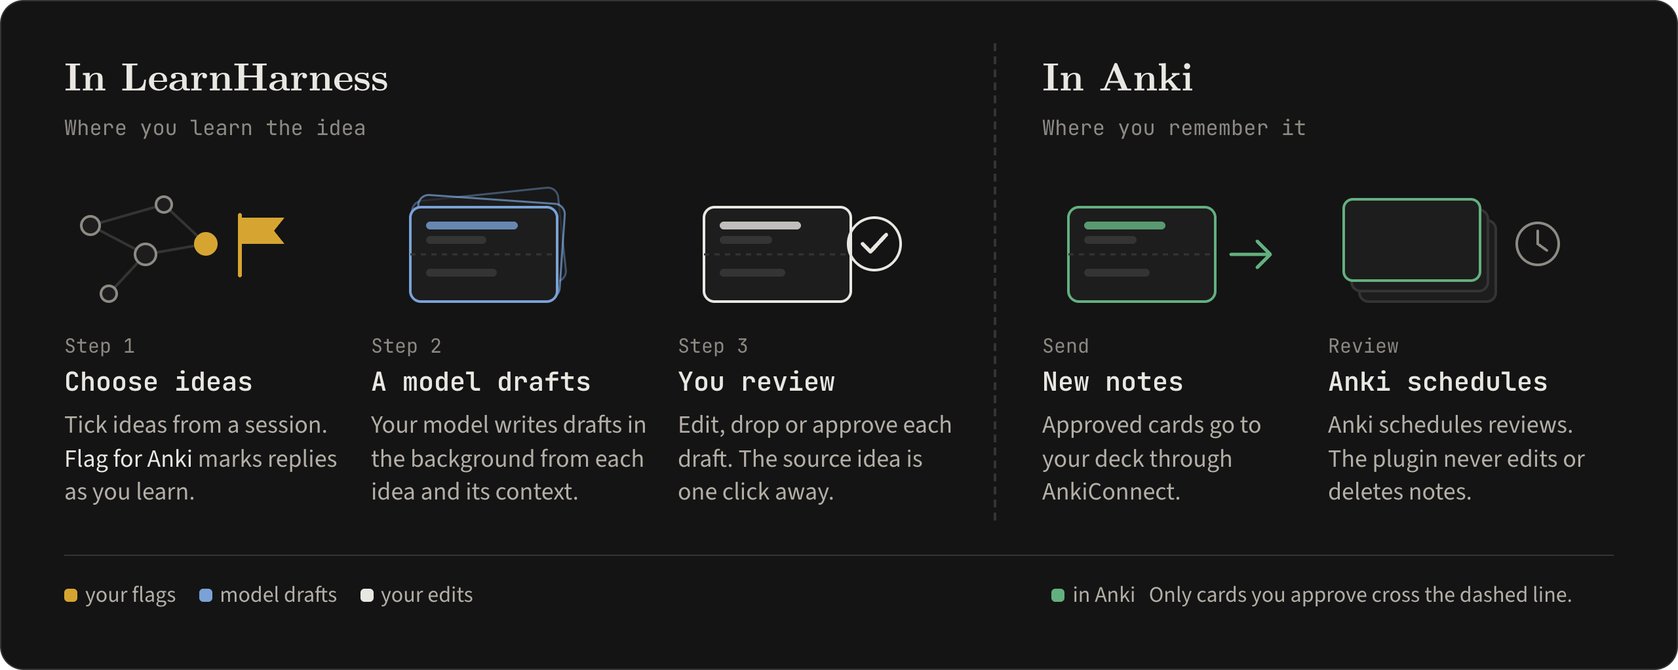
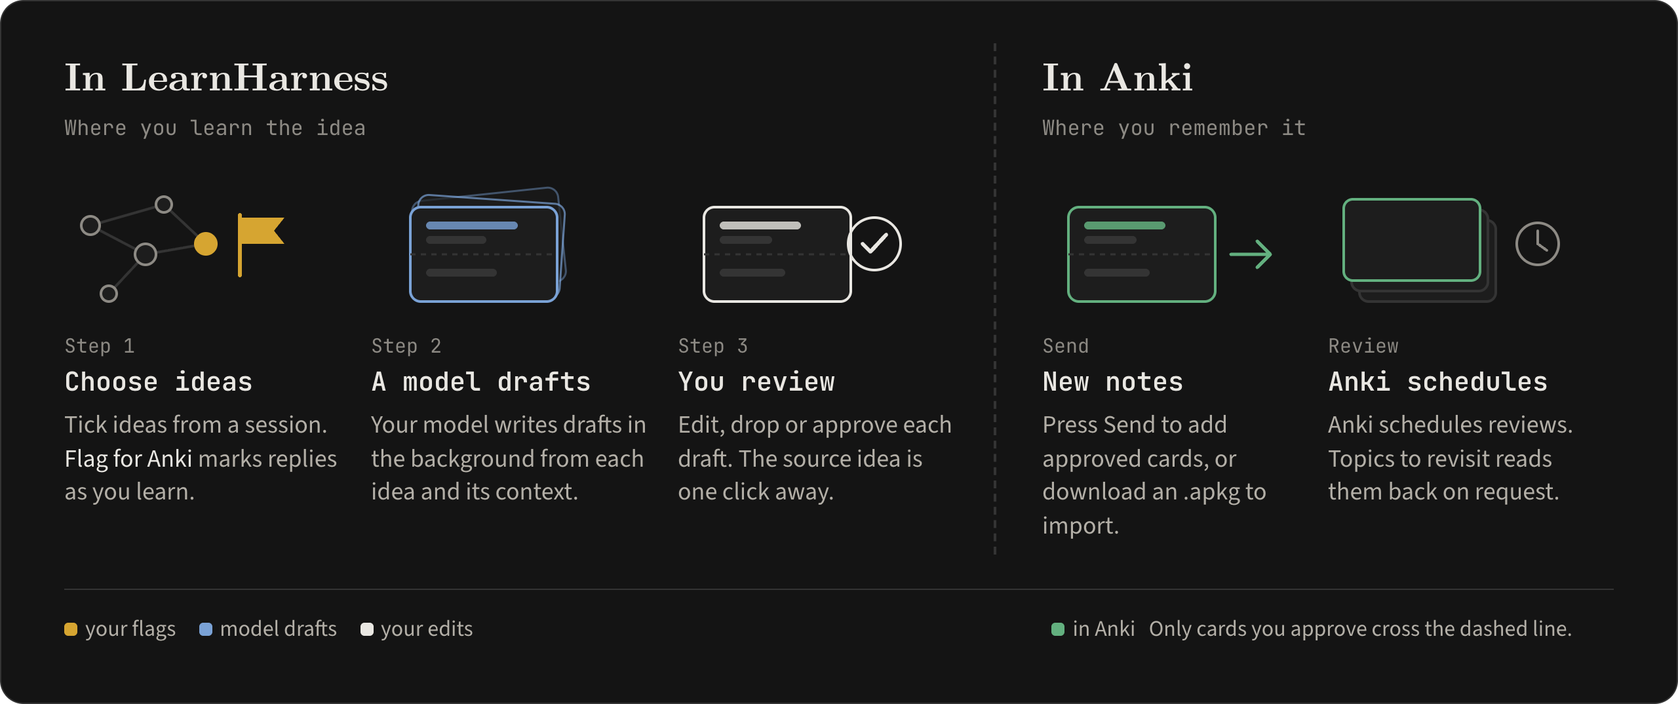
Update the README for 0.8.0 and move the diagram under the hero
- Retake every screenshot from the 0.8.0 build: four card types and the
  model picker on Write, Download .apkg beside Send, unpaired settings
- New screenshots: Topics to revisit and Settings > More card types
- Card-types sheet shows six types and where each is turned on; Steps,
  Apply and Contrast examples follow the writer's rules
- Diagram covers .apkg export and Topics to revisit, and sits under the hero
- New sections for package download and Topics to revisit; data table,
  limitations and roadmap match 0.8.0
- Round-2 council fixes: bounded model context, conditional Save, menu
  label for dismissing ideas, interrupted-send recovery, H1 title
- Remove README-only images from 0.7.2 and 0.8.0

diff --git a/docs/images/readme/src/card-types.html b/docs/images/readme/src/card-types.html
@@ -4,7 +4,8 @@
 <script src="fonts/tex-svg.js"></script>
 <style>
 #art { width: 1280px; padding: 36px 40px 40px; border-radius: 18px; border: 1px solid var(--rule); }
-.grid { display: grid; grid-template-columns: repeat(4, 1fr); gap: 18px; }
+.grid { display: grid; grid-template-columns: 1.15fr repeat(3, 1fr); gap: 18px; }
+.idea { grid-row: span 2; }
 .idea { padding: 4px 8px 0 2px; }
 .idea .node { display: flex; align-items: center; gap: 10px; font-size: 13px; color: var(--flag); }
 .idea .node i { width: 14px; height: 14px; border-radius: 50%; background: var(--flag); display: inline-block; }
@@ -28,7 +29,7 @@
       <div class="node"><i></i>One idea from your graph</div>
       <h2>Carnot efficiency</h2>
       <p class="stmt">A reversible engine between reservoirs at absolute temperatures \(T_h\) and \(T_c\) has efficiency \(\eta = 1 - T_c/T_h\).</p>
-      <p>Seven kinds of card can test it. Fact and Equation are on by default. Turn on the others in step 2.</p>
+      <p>Six kinds of card can test it. Fact and Equation are on by default. Why and Steps are switched on in the Write step, Apply and Contrast in Settings.</p>
     </div>
     <div class="card def"><header><b>Fact</b><span>default</span></header>
       <div class="q">What kind of temperature goes into the Carnot efficiency?</div>
@@ -36,21 +37,19 @@
     <div class="card def"><header><b>Equation</b><span>default</span></header>
       <div class="q">What is the efficiency of a reversible engine between \(T_h\) and \(T_c\)?</div>
       <div class="a">\(\eta = 1 - \dfrac{T_c}{T_h}\)</div></div>
-    <div class="card"><header><b>Steps</b><span>optional</span></header>
-      <div class="q">How do you find the best possible efficiency from two reservoir temperatures?</div>
-      <div class="a">Convert both to kelvin, divide cold by hot, subtract from 1.</div></div>
-    <div class="card"><header><b>Apply</b><span>optional</span></header>
-      <div class="q">A plant raises steam at 550&nbsp;K and cools it with a river at 290&nbsp;K. What caps its efficiency?</div>
-      <div class="a">The Carnot limit, \(1 - 290/550 \approx 47\%\).</div></div>
-    <div class="card"><header><b>Why</b><span>optional</span></header>
+    <div class="card"><header><b>Why</b><span>Write step</span></header>
       <div class="q">Why can no engine between two reservoirs beat a reversible one?</div>
       <div class="a">It could drive the reversible engine backwards and break the Kelvin-Planck statement.</div></div>
-    <div class="card"><header><b>Compose</b><span>optional</span></header>
-      <div class="q">All reversible engines between two reservoirs share one efficiency, and for them \(Q_c/Q_h = T_c/T_h\). What is that efficiency?</div>
-      <div class="a">\(\eta = 1 - Q_c/Q_h = 1 - T_c/T_h\)</div></div>
-    <div class="card"><header><b>Contrast</b><span>optional</span></header>
-      <div class="q">Which can exceed 1: an engine's efficiency or a refrigerator's coefficient of performance?</div>
-      <div class="a">The coefficient of performance. Efficiency is always below 1.</div></div>
+    <div class="card"><header><b>Steps</b><span>Write step</span></header>
+      <div class="q">Finding an engine's Carnot limit, you have converted both reservoir temperatures to kelvin. What next?</div>
+      <div class="a">Divide \(T_c\) by \(T_h\).</div></div>
+    <div class="card"><header><b>Apply</b><span>Settings</span></header>
+      <div class="q">A plant raises steam at 550&nbsp;K and cools it with a river at 290&nbsp;K. Which relation caps its efficiency, and what tells you?</div>
+      <div class="a">The Carnot efficiency. Heat flows between two reservoirs at fixed temperatures.</div></div>
+    <div class="card"><header><b>Contrast</b><span>Settings</span></header>
+      <div class="q">A reversible device between 300&nbsp;K and 600&nbsp;K scores 0.5 on its figure of merit. What kind of device is it?</div>
+      <div class="a">A heat engine, \(\eta = 1 - 300/600\). A refrigerator there would have a COP of 1.</div></div>
   </div>
+</div>
 </div>
 </body></html>

diff --git a/docs/images/readme/src/workflow.html b/docs/images/readme/src/workflow.html
@@ -83,7 +83,7 @@
           </svg>
           <div class="n">Send</div>
           <h3>New notes</h3>
-          <p>Approved cards go to your deck through AnkiConnect.</p>
+          <p>Press Send to add approved cards, or download an .apkg to import.</p>
         </div>
         <div class="st">
           <svg viewBox="0 0 200 96" width="200">
@@ -94,7 +94,7 @@
           </svg>
           <div class="n">Review</div>
           <h3>Anki schedules</h3>
-          <p>Anki schedules reviews. The plugin never edits or deletes notes.</p>
+          <p>Anki schedules reviews. Topics to revisit reads them back on request.</p>
         </div>
       </div>
     </div>

diff --git a/README.md b/README.md
@@ -1,10 +1,10 @@
-<p align="center">
+<h1 align="center">
   <picture>
     <source media="(prefers-color-scheme: dark)" srcset="docs/images/readme/banner-dark.png">
     <source media="(prefers-color-scheme: light)" srcset="docs/images/readme/banner-light.png">
-    <img src="docs/images/readme/banner-light.png" alt="Anki Bridge banner. A node in a knowledge graph is linked by a dotted line to a stack of flashcards." width="720">
+    <img src="docs/images/readme/banner-light.png" alt="Anki Bridge" width="720">
   </picture>
-</p>
+</h1>
 
 <p align="center"><strong>Turn what you learn in LearnHarness into Anki cards you have checked.</strong></p>
 
@@ -12,39 +12,40 @@
   <a href="#install">Install</a> ·
   <a href="#how-it-works">How it works</a> ·
   <a href="#card-types">Card types</a> ·
+  <a href="#topics-to-revisit">Topics to revisit</a> ·
   <a href="#what-goes-where">What goes where</a> ·
   <a href="CHANGELOG.md">Changelog</a>
 </p>
 
-<p align="center"><sub>Version 0.7.2 · No public release yet · <a href="#install">Build from source</a></sub></p>
+<p align="center"><sub>Version 0.8.0 · No public release yet · Build from source</sub></p>
 
-Anki Bridge is a community plugin for [LearnHarness](https://github.com/amosblomqvist/learnharness). It reads the ideas in your knowledge graph, has your model draft flashcards from them, and sends the ones you approve to [Anki](https://apps.ankiweb.net/) as new notes. You edit and approve every draft, Anki schedules the reviews, and nothing reaches Anki until you press Send.
+Anki Bridge is a community plugin for [LearnHarness](https://github.com/amosblomqvist/learnharness). It reads the ideas in your knowledge graph, has your model draft flashcards from them, and adds the ones you approve to [Anki](https://apps.ankiweb.net/). You edit and approve every draft, and Anki schedules the reviews. Only cards you approve are added, either when you press Send or when you import a package you downloaded.
 
-![The Anki Bridge review step in LearnHarness. A deck and tags form with Approve all drafts (4) and Send 1 card to Anki sits above draft cards about Carnot efficiency and the Kelvin-Planck statement, each showing front, back and extra fields with rendered equations.](docs/images/readme/hero.png)
-
-## Why it works this way
-
-**Cards start from your graph.** Each LearnHarness idea is a single claim, linked to the premises that support it and the teaching reply it came from. The model sees all of that, so a Why card can ask for the actual reasoning you were taught and a Contrast card can pick a real neighbouring idea.
-
-**You review every card.** Model-written cards are often close but not quite right. Learners who make their own cards remember more than those who study a premade deck ([Pan et al., 2022](https://doi.org/10.1037/mac0000083)), and editing drafts keeps you part of that work. The review screen is built for editing, with the source idea one click away and a live preview below each field.
-
-**It only adds notes.** Anki Bridge creates notes in its own note type. It never edits or deletes an existing note and never changes scheduling or review history. If you change a card in Anki, your change stays.
-
-**Maths and code survive the trip.** Cards use MathJax for equations and keep fenced code blocks with their indentation, both in the preview and in Anki.
-
-## How it works
+![The Anki Bridge review step in LearnHarness. A deck and tags form with Approve all drafts (4), Download .apkg and Send 1 card to Anki sits above the drafts. An Equation card on Carnot efficiency shows its front, back, extra field and rendered equation, followed by a Fact card on the Kelvin-Planck statement and an approved Why card.](docs/images/readme/hero.png)
 
 <picture>
   <source media="(prefers-color-scheme: dark)" srcset="docs/images/readme/how-it-works-dark.png">
   <source media="(prefers-color-scheme: light)" srcset="docs/images/readme/how-it-works-light.png">
-  <img src="docs/images/readme/how-it-works-light.png" alt="Diagram in two halves. In LearnHarness, step 1 is choosing ideas, which you can flag during teaching. In step 2 a model drafts cards, and in step 3 you review them. A dashed line separates this from Anki, where approved cards arrive as new notes and Anki schedules reviews. Only cards you approve cross the line.">
+  <img src="docs/images/readme/how-it-works-light.png" alt="Diagram in two halves. In LearnHarness, step 1 is choosing ideas, and replies you flag during teaching mark their ideas. In step 2 a model drafts cards, and in step 3 you review them. A dashed line separates this from Anki. You press Send to add approved cards, or download an .apkg to import, and Anki schedules the reviews. Topics to revisit reads them back when you ask. Only cards you approve cross the line.">
 </picture>
 
-### Before you start, flag replies while you learn
+## Why it works this way
 
-When a teaching reply covers something you want to keep, press **Flag for Anki** in the session's top bar. It flags the latest finished reply and lets you leave a note for the card writer, such as the mistake you made. Cmd+Shift+A (Ctrl+Shift+A on Windows and Linux) flags it at once, and the confirmation offers to add a note. The flag covers every idea LearnHarness extracts from that reply, and flagged ideas may get more cards than usual. **Make cards** in the same bar jumps straight to drafting for the current session.
+**Cards start from your graph.** Each LearnHarness idea is a single claim, linked to the ideas that support it and the teaching reply it came from. The model gets the idea, nearby linked ideas and an excerpt of that reply, so a Why card can ask for the reasoning you were taught.
 
-Flagging is optional. You can make cards for any idea in your graph.
+**You review every card.** Model-written cards are often close but not quite right, so every draft waits for you to check and edit it. Making your own cards also helps memory compared with studying a premade deck ([Pan et al., 2022](https://doi.org/10.1037/mac0000083)). The review screen is built for editing, with the source idea one click away and a live preview below each field.
+
+**It only adds notes.** Anki Bridge creates notes in its own note type. It never edits or deletes an existing note and never changes scheduling or review history. If you change a card in Anki, your change stays.
+
+**Maths and code keep their formatting.** Cards use MathJax for equations and keep fenced code blocks with their indentation, both in the preview and in Anki.
+
+## How it works
+
+### Flag replies while you learn (optional)
+
+When a teaching reply covers something you want to keep, press **Flag for Anki** in the session's top bar. It flags the latest finished reply and lets you leave a note for the card writer, such as the mistake you made. Cmd+Shift+A (Ctrl+Shift+A on Windows and Linux) flags it at once, and the confirmation offers to add a note. The flag covers every idea LearnHarness extracts from that reply, and flagged ideas can get up to 12 cards. **Make cards** in the same bar opens Anki Bridge with that session's flagged ideas ticked.
+
+You don't have to flag anything. You can make cards for any idea in your graph.
 
 ![A LearnHarness teaching session about heat engines, with Flag for Anki and Make cards in the top bar. The Flag for Anki dialog shows an excerpt of the latest reply and the note "I mix up which temperature goes on top."](docs/images/readme/flag.png)
 
@@ -52,65 +53,86 @@ Flagging is optional. You can make cards for any idea in your graph.
 
 Open **Anki Bridge** from the LearnHarness sidebar. The page has three steps, top to bottom.
 
-Pick a session, or the whole graph, and tick the ideas you want cards for. Each idea shows where it stands: flagged, no cards yet, drafts to review, already in Anki, or changed since you made its cards. **Select ideas without cards** picks every idea in the current view that has none, which is the quickest way to catch up on an old session. Ideas you never want cards for can be dismissed.
+Under **Ideas from**, pick a session or your whole graph, and tick the ideas you want cards for. Each idea shows where it stands: flagged, no cards yet, drafts to review, already in Anki, or changed since you made its cards. **Select ideas without cards** ticks every idea in the current view that has none. If that would be more than 1,000 ideas, it asks you to narrow the view first. To stop seeing an idea, choose **Don't make cards for this idea** from its menu.
 
 ![Step 1, Choose ideas. A flag banner with the note about temperatures sits above a list of ideas from the heat engines session with badges such as Flagged, No cards, 1 to review, 1 in Anki and Changed since carded. A bar at the bottom reads 7 ideas selected.](docs/images/readme/choose-ideas.png)
 
 ### 2. Write cards
 
-Choose the card types and the most cards per idea, then press **Write cards**. The plugin uses your LearnHarness cheap model unless you pick another one. Before anything runs, a dialog shows the number of model calls, the most cards it can write, a cost estimate for the first attempt when the model has pricing, and a summary of what will be sent to the model. Nothing is sent until you press **Start writing**.
+Tick the card types you want (Fact, Equation, Why and Steps) and set the most cards per idea. **See examples** shows a sample card for each type. Leave the model picker blank to use your LearnHarness cheap model, or pick another model.
 
-Writing happens in the background, so you can keep learning. If a run is cancelled or a batch fails, cards from finished batches are kept, and **Retry the rest** estimates again for the remaining ideas only.
+Press **Write cards**. A dialog shows the number of model calls, the most cards it can write, a cost estimate for the first attempt when the model has pricing, and a summary of what will be sent to the model. Nothing is sent until you press **Start writing**.
 
-![Step 2, Write cards. Card type checkboxes with Fact, Equation and Why ticked, a cards-per-idea limit, and the Write cards dialog listing 2 ideas, up to 4 cards, Claude Haiku 4.5 as the LearnHarness cheap model, 1 model call and a cost of about one cent.](docs/images/readme/write.png)
+Writing happens in the background, so you can keep learning. If a run is cancelled or a batch fails, cards from finished batches are kept. **Retry the rest** estimates again for the remaining ideas only, or **Try again** if no batch finished.
+
+![Step 2, Write cards. Fact, Equation and Why are ticked and Steps is not, the model picker is blank, and the limit is 2 cards per idea. The Write cards dialog lists 2 ideas, up to 4 cards, Claude Haiku 4.5 as the cheap model, 1 model call or up to 3 if answers need fixing, and a cost of about one cent for the first attempt.](docs/images/readme/write.png)
 
 ### 3. Review and send
 
-Every draft shows its front, back and optional extra field with maths and code rendered. Open **Idea when this card was written** to compare a card with its source. Edit, drop or approve cards one at a time, or approve all drafts once you have read them. Long cards get a gentle warning, not a block. You can also write a card by hand from the **More** menu.
+Every draft shows its front, back and optional extra field, with maths and code rendered. Open **Idea when this card was written** to compare a card with its source. Edit, drop or approve cards one at a time, or approve all drafts once you have read them. Long cards get a warning but can still be approved. You can also write a card by hand from the **More** menu.
 
 ![Editing a card. The raw text with MathJax delimiters sits above a live preview of the rendered question and the equation for Carnot efficiency.](docs/images/readme/edit.png)
 
 ![A Steps card for insertion sort whose answer is a syntax-highlighted Python loop with its indentation intact.](docs/images/readme/code.png)
 
-Pick a deck (or type a new one), check the tags and press **Send**. The tags field suggests tags from your Anki collection and fills in a template you set once. A green panel confirms what was sent, where, and with which tags, and **Show in Anki** opens the new notes in Anki's browser.
+Pick a deck (or type a new one), check the tags and press **Send to Anki**. The deck field suggests your Anki decks and says when a name is new. The tags field suggests tags from your Anki collection and starts from a template you set once in settings. A green panel confirms how many cards were sent, to which deck, with which tags, and **Show in Anki** opens them in Anki's browser.
 
 ![A green confirmation panel reading 5 cards sent to Anki, with the deck Physics::Thermodynamics, the tags that were added, and Show in Anki and Dismiss buttons.](docs/images/readme/sent.png)
+
+#### Download a package instead
+
+**Download .apkg**, next to Send to Anki, saves the approved cards as a package file. It needs a deck name but no AnkiConnect, and Anki can be closed. Open the file with Anki, or use **File → Import**, to add the cards. The package has the same fields, formatting, tags and note type as a send.
+
+A download is not a send. The cards stay approved, they don't count as in Anki, and you can still send them. Anki decides how to match an imported package with your collection, so importing can add duplicates of cards you already sent, and Anki Bridge can't check this.
 
 ## Card types
 
 <picture>
   <source media="(prefers-color-scheme: dark)" srcset="docs/images/readme/card-types-dark.png">
   <source media="(prefers-color-scheme: light)" srcset="docs/images/readme/card-types-light.png">
-  <img src="docs/images/readme/card-types-light.png" alt="One idea, Carnot efficiency, and seven example cards written from it. Fact and Equation are marked default. Steps, Apply, Why, Compose and Contrast are marked optional, each with a sample question and answer.">
+  <img src="docs/images/readme/card-types-light.png" alt="One idea, Carnot efficiency, and six example cards written from it. Fact and Equation are marked default. Why and Steps are marked Write step. Apply and Contrast are marked Settings. Each card has a sample question and answer.">
 </picture>
 
-| Type | What it asks you to do | Default |
+| Type | What it asks you to do | Where to turn it on |
 | --- | --- | --- |
-| Fact | Remember a fact, definition, unit or prefix | On |
-| Equation | Recall a specific formula or relation | On |
-| Steps | Recall the steps of a method | Off |
-| Apply | Recognise where to use an idea in a new situation | Off |
-| Why | Explain the reason behind the idea | Off |
-| Compose | Combine linked ideas to reach this one | Off |
-| Contrast | Tell the idea apart from a similar one | Off |
+| Fact | Remember a definition, unit, prefix or other fact | On by default |
+| Equation | Recall a formula or relation | On by default |
+| Why | Explain why a result holds | Write step |
+| Steps | Recall the next step in a method you carry out | Write step |
+| Apply | Pick the rule or method that fits a new situation | Settings, under **More card types** |
+| Contrast | Tell apart two ideas that are easy to mix up | Settings, under **More card types** |
 
-The model writes only types that fit an idea. Why and Compose need a reasoning chain that ends in the idea, and Contrast needs a related idea to compare with. An idea can also get no card at all if the model judges it not worth one, and it says why. Numerical values of physical constants are left out unless you turn them on, ask for one in a flag note, or the lesson calculates with that constant.
+The model writes only types that fit an idea. Why needs supporting ideas in the graph, and Contrast needs a similar neighbouring idea. An idea can also get no card at all if the model can't write a useful one it can check, and it says why. The numerical values of physical constants are not carded unless you flag the idea that states one. A conversion constant you use in calculations, such as $\hbar c$, can still get a card.
+
+Earlier versions also drafted Compose cards. Cards you already have of that type stay readable.
+
+<p align="center">
+  <img src="docs/images/readme/more-card-types.png" alt="The More card types panel in Anki Bridge settings. It explains that Fact, Equation, Why and Steps are chosen on the Write step, then offers Apply and Contrast checkboxes, each with an example card." width="640">
+</p>
+
+## Topics to revisit
+
+Open **Topics to revisit** from the sidebar, or from **More** in step 3, and press **Check Anki reviews**. Nothing is read from Anki before you press it. Anki Bridge then reads review results for the notes it sent to your paired profile and lists a topic when one of its cards has 3 or more lapses, 2 or more Again presses on reviews in the last 30 days, or Anki's leech tag.
+
+Each topic shows its cards with their lapses, reviews, recent Again dates and deck, with buttons to open the session the idea came from and to show a card in Anki. The list suggests what to look at again. It doesn't prove you don't know something, because a card you keep missing may be badly worded. Results stay in memory until you press **Clear** or close LearnHarness. They are not saved, added to your graph or sent to a model.
+
+![Topics to revisit after a check. Two topics are listed. Refrigerator coefficient of performance has 4 lapses and 3 Again presses in 30 days, with its card, review dates and a Show in Anki button. Michaelis-Menten equation below it has 2 lapses, 1 Again and a Leech badge.](docs/images/readme/topics.png)
 
 ## Install
 
 > [!NOTE]
-> Anki Bridge has no public release yet. Version 0.7.2 is the current build for personal use. Until a release is published, build the install zip from source as described below.
+> Anki Bridge has no public release yet. Version 0.8.0 is the current build for personal use. Until a release is published, build the install zip from source as described below.
 
 ### What you need
 
-- [LearnHarness](https://github.com/amosblomqvist/learnharness) with community plugins (plugin API v1). Tested on 0.6.1. The plugin allows later versions but has not been tested on them.
-- Anki Desktop with the [AnkiConnect](https://git.sr.ht/~foosoft/anki-connect) add-on, running while you send. Tested with Anki 26.08.1 and AnkiConnect 26.10.11.0 and 26.11.15.0, which need Anki 26.08 or later. AnkiConnect builds without `getActiveProfile` are refused, because the plugin uses it to check it is writing to the right profile.
+- [LearnHarness](https://github.com/amosblomqvist/learnharness) with community plugins (plugin API v1). Tested on 0.6.1 on macOS. The plugin allows later versions but has not been tested on them.
 - A model set up in LearnHarness, for writing cards. Choosing ideas, estimating cost and sending make no model calls. Writing cards uses your provider's quota.
+- For sending and Topics to revisit, Anki Desktop 26.08 or later with the [AnkiConnect](https://git.sr.ht/~foosoft/anki-connect) add-on, running while you use them. Tested with AnkiConnect 26.10.11.0 and 26.11.15.0. Builds without `getActiveProfile` are refused, because the plugin uses it to check it is writing to the right profile. **Download .apkg** works without AnkiConnect.
 - To build the zip, Node.js 23.6 or later, npm and the `zip` command.
 
 ### Steps
 
-1. Build the zip. In a clone of this repository, run `npm ci` and then `npm run package:plugin`. This writes `anki-bridge-v0.7.2.zip` at the repository root.
+1. Build the zip. In a clone of this repository, run `npm ci` and then `npm run package:plugin`. This writes `anki-bridge-v0.8.0.zip` at the repository root.
 2. In LearnHarness, open **Settings → Community plugins** and copy the plugins folder path. Quit LearnHarness.
 3. Unzip the archive and move the `anki-bridge` folder into the plugins folder, so the manifest ends up at `anki-bridge/dist/manifest.json`.
 4. Start LearnHarness, enable **Anki Bridge** under Community plugins, and open it from the sidebar.
@@ -122,13 +144,13 @@ To upgrade later, quit LearnHarness, back up `anki-bridge/data/`, then replace o
 
 ### Connect to Anki
 
-Open Anki on the profile you want cards in. A throwaway profile is a good place to start.
+Skip this if you only want to download packages. Otherwise, open Anki on the profile you want cards in. A throwaway profile is a good place to start.
 
-1. In **Settings → Anki Bridge**, check the AnkiConnect address (usually `http://127.0.0.1:8765`) and add an API key if you set one in AnkiConnect.
-2. Press **Save**, then **Test connection**.
+1. In **Settings → Anki Bridge**, check the AnkiConnect address (usually `http://127.0.0.1:8765`). Add an API key if you set one in AnkiConnect.
+2. If you changed the address or key, press **Save**. Then press **Test connection**.
 3. Press **Use the open profile**, check the profile name, and confirm with **Use this profile**.
 
-From then on, the plugin checks the profile before every send and stops if a different one is open.
+From then on, the plugin checks the profile before every send and review check, and stops if a different one is open.
 
 <p align="center">
   <img src="docs/images/readme/settings.png" alt="Anki Bridge settings inside LearnHarness Settings. Connect to Anki has the address http://127.0.0.1:8765, an empty API key field, and Save and Test connection buttons. Anki profile reads No profile chosen yet, with a Use the open profile button." width="720">
@@ -138,10 +160,12 @@ From then on, the plugin checks the profile before every send and stops if a dif
 
 | | What | When |
 | --- | --- | --- |
-| To your model | The chosen ideas, nearby linked ideas, an excerpt of the reply each idea came from when there is one, your flag notes, and cards Anki Bridge already made for those ideas | When you press **Start writing** |
-| Written to Anki | Approved cards as new notes in the note type `LearnHarness Basic` (fields Front, Back, Extra, Source, LH_ID and LH_Node). A send also creates the deck and the note type if they are missing. | When you press **Send** |
+| To your model | The chosen ideas, nearby linked ideas, an excerpt of the reply each idea came from when there is one, your flag notes, and up to six recent cards Anki Bridge made for each idea | When you press **Start writing** |
+| Written to Anki | Approved cards as new notes in the note type `LearnHarness Basic` (fields Front, Back, Extra, Source, LH_ID and LH_Node). A send also creates the deck and the note type if they are missing. | When you press **Send to Anki** |
 | Changed in Anki on request | The `LearnHarness Basic` note type's missing fields, styling and templates | Only when you confirm a repair or reset in settings |
-| Read from Anki | Connection, active profile, deck names, tags, the note type, and whether sent notes still exist | When you open the page, send, or run a check |
+| Read from Anki | The open profile, deck names and tags, the note type, and the notes Anki Bridge sent, to check they still exist | When you open the page, send, or run a check |
+| Read for Topics to revisit | Lapses, reviews, review logs, tags, deck and suspended status of the notes Anki Bridge sent to the paired profile | Only when you press **Check Anki reviews** |
+| Saved to a file | Approved cards, their source names and their Anki Bridge IDs, in an `.apkg` package | When you press **Download .apkg**. Neither Anki nor your model is contacted. |
 | Never changed | Existing note content, scheduling and review history | Never |
 
 If you set an API key, it goes with every AnkiConnect request. By default each note also gets the tags `learnharness` and `learnharness::kind::<type>` (Contrast cards use `discriminate`), so you can find plugin cards in Anki. You can turn these tags off in settings. Drafts, flags and send records stay in the plugin's own data folder inside LearnHarness. Your LearnHarness graph and sessions are read, never changed.
@@ -150,27 +174,27 @@ If you set an API key, it goes with every AnkiConnect request. By default each n
 
 - Cards are Basic front-and-back notes. Cloze, reversed and type-in cards are not supported.
 - Images and Mermaid diagrams cannot go in cards.
-- Content goes one way. Review results from Anki do not come back to LearnHarness.
-- Card quality depends on your model. Check every draft. A full card-quality benchmark across subjects has not been run yet.
-- Anki Desktop must be open with AnkiConnect running. Don't switch Anki profiles during a send, because AnkiConnect cannot check the profile and write in a single step.
+- Card quality depends on your model, so check every draft. The writer was tuned on one lecture and has not been benchmarked on new subjects.
+- The 0.8.0 interface was checked with synthetic data in a scratch LearnHarness. The writer has not yet been tested end to end with a live model and a real Anki profile.
+- Downloaded packages have been checked with SQLite and zip readers but not yet imported into Anki.
+- Sending and Topics to revisit need Anki Desktop open with AnkiConnect. Don't switch Anki profiles during a send, because AnkiConnect cannot check the profile and write in a single step.
 - An optional AnkiConnect API key is stored in plain text in the plugin's data folder.
 
 ## Roadmap
 
-These are proposals and open pull requests. None of them is merged.
+These are plans, not commitments.
 
-- Fewer card-type choices on the Write step and a plainer model picker ([#40](https://github.com/Singh-Mehtab/learnharness-anki-bridge/pull/40)).
-- Topics to revisit, drawn from your Anki reviews ([#41](https://github.com/Singh-Mehtab/learnharness-anki-bridge/pull/41)).
-- Export approved cards as an `.apkg` file, for when AnkiConnect is not an option ([#42](https://github.com/Singh-Mehtab/learnharness-anki-bridge/pull/42)).
+- Use 0.8.0 day to day and test card quality on material the writer was not tuned on.
 - A first public release.
+- An idea for later: practice sessions aimed at topics to revisit.
 
 ## Questions
 
 **Does this replace the built-in Flashcards plugin?** No. Flashcards schedules reviews inside LearnHarness. Anki Bridge hands cards to Anki and lets Anki schedule them. The two share no data and can both be enabled.
 
-**What happens if I edit a card in Anki?** Your edit stays. The plugin never updates a note after sending it. If you write more cards for an idea, the model sees the cards Anki Bridge already made for it and tries new angles. It sees them as the plugin stored them, so it does not see edits made in Anki.
+**What happens if I edit a card in Anki?** Your edit stays. The plugin never updates a note after sending it. If you write more cards for an idea, the model sees up to six recent cards Anki Bridge made for it, as the plugin stored them, and tries new angles. It does not see edits made in Anki.
 
-**What if a send is interrupted?** The plugin records each card before adding its note. After a crash or restart, reconnect to the same address and profile, then use **Check unconfirmed sends** in the **More** menu. It looks for each card in Anki and marks it sent or failed. Resend only the cards marked failed.
+**What if a send is interrupted?** The plugin records each card before adding its note. After a crash or restart, reconnect to the same address and profile, then use **Check unconfirmed sends** in the **More** menu. It looks for each card in Anki and marks it sent or failed. Use **Retry send** only on cards marked failed. If the check itself fails, leave those cards alone and try the check again later.
 
 **Is it affiliated with Anki or LearnHarness?** No. It is an unofficial community plugin.
 
@@ -180,6 +204,6 @@ See [docs/development.md](docs/development.md) for setup, tests and the card-qua
 
 ## Credits and license
 
-The card writer adapts card-kind and prompt rules from [Twig](https://github.com/amoghu1s1/twig), from LearnHarness's core Flashcards plugin, and from the LearnHarness recall-cards proposal ([PR #447](https://github.com/amosblomqvist/learnharness/pull/447)), all AGPL-3.0. The development SDK types and local install script come from LearnHarness. See [THIRD_PARTY_NOTICES.md](THIRD_PARTY_NOTICES.md).
+The card writer adapts card-kind and prompt rules from [Twig](https://github.com/amoghu1s1/twig), from LearnHarness's core Flashcards plugin, and from the LearnHarness recall-cards proposal ([PR #447](https://github.com/amosblomqvist/learnharness/pull/447)), all AGPL-3.0. The `.apkg` layout follows [genanki](https://github.com/kerrickstaley/genanki) (MIT). The development SDK types and local install script come from LearnHarness. See [THIRD_PARTY_NOTICES.md](THIRD_PARTY_NOTICES.md).
 
 Anki Bridge is licensed under [AGPL-3.0](LICENSE).

diff --git a/docs/images/readme/src/README.md b/docs/images/readme/src/README.md
@@ -7,7 +7,7 @@ The README's diagrams and screenshot frames are HTML pages rendered to PNG at 2x
 | `banner.html` | `banner-dark.png`, `banner-light.png` (`?theme=light`) |
 | `workflow.html` | `how-it-works-dark.png`, `how-it-works-light.png` |
 | `card-types.html` | `card-types-dark.png`, `card-types-light.png` |
-| `frame.html` | Window frames around screenshots: `hero.png`, `choose-ideas.png`, `flag.png`, `write.png`, `edit.png`, `code.png`, `sent.png`, `settings.png` |
+| `frame.html` | Window frames around screenshots: `hero.png`, `choose-ideas.png`, `flag.png`, `write.png`, `edit.png`, `code.png`, `sent.png`, `settings.png`, `more-card-types.png`, `topics.png` |
 
 ## Fonts
 
@@ -33,4 +33,4 @@ PLAYWRIGHT_CORE=/path/to/playwright-core/index.mjs CHROME="/path/to/chrome" \
 
 ## Screenshots
 
-Take screenshots at 2x device scale from a scratch LearnHarness 0.6.1 server with scratch `LH_DATA_DIR` and `LH_AUTH_FILE`, synthetic sessions and a fake AnkiConnect. Never use real graph data or a real Anki profile. The current set uses invented sessions on heat engines, enzyme kinetics and sorting.
+Take screenshots at 2x device scale of the current plugin build (0.8.0 for this set) from a scratch LearnHarness 0.6.1 server with scratch `LH_DATA_DIR` and `LH_AUTH_FILE`, synthetic sessions and a fake AnkiConnect. For Topics to revisit, the fake AnkiConnect also answers `cardsInfo` and `getReviewsOfCards` with invented review histories. Never use real graph data or a real Anki profile. The current set uses invented sessions on heat engines, enzyme kinetics and sorting.
